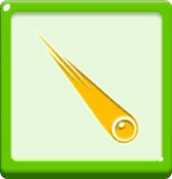
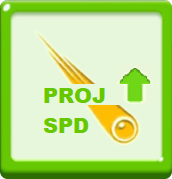
turretstats UI update
Moved the stats caluclation into a seperate function UpdateStats();. When successfully equiping item, it calls the UpdateStats(); function to update the stats then invokes the onItemChangedCallBack() function to update the UI visuals.

Updated the Projectile speed Icon.

Changed region(s): [[0.2326, 0.4469, 0.6977, 0.5866], [0.2326, 0.6425, 0.5233, 0.7542], [0.6977, 0.3631, 0.8721, 0.5866]]

diff --git a/Assets/Scripts/turret.cs b/Assets/Scripts/turret.cs
@@ -79,6 +79,7 @@ public class turret : MonoBehaviour
             if (currentEquipment[i] == null)
             {
                 currentEquipment[i] = newItem;
+                UpdateStats();
                 if (onItemChangedCallBack != null)
                     onItemChangedCallBack.Invoke();
                 Debug.Log("Equip() at Slot : " + i + " is " + currentEquipment[i].name);
@@ -119,40 +120,7 @@ public class turret : MonoBehaviour
     // Update is called once per frame
     void Update()
     {
-        //resets stats at the beginning of every update loop. Otherwise turret strength increases with every loop.
-        range = baserange;
-        fireRate = basefireRate;
-        damage = basedamage;
-        doubleAttack = false;
-        projSpeedMod = 1f;
-
-        //Checking the stat change on every loop can prevent bugs and reduce complexity.
-        for (int i = 0; i < numSlots; i++)
-        {
-            if (currentEquipment[i] != null)
-            {
-                if (currentEquipment[i].name == "Increased Fire Rate")
-                {
-                    fireRate = fireRate * incFireRate;
-                }
-                else if (currentEquipment[i].name == "Increased Damage")
-                {
-                    damage = damage * incDMG;
-                }
-                else if (currentEquipment[i].name == "Double Attack")
-                {
-                    doubleAttack = true;
-                }
-                else if (currentEquipment[i].name == "Increased Range")
-                {
-                    range = range * incRange;
-                }
-                else if (currentEquipment[i].name == "Increased Projectile Speed")
-                {
-                    projSpeedMod = projSpeedMod * incProjSpeed;
-                }
-            }
-        }
+        UpdateStats();
 
         if (useSurroundAOE)
             AOEeffectPrefab.transform.localScale = new Vector3(range / 7, 1, range / 7);  //need to normalize it. Hard coding the base range to 7
@@ -291,6 +259,44 @@ public class turret : MonoBehaviour
         else
         {
             Shoot();
+        }
+    }
+
+    void UpdateStats()
+    {
+        //resets stats at the beginning of every update loop. Otherwise turret strength increases with every loop.
+        range = baserange;
+        fireRate = basefireRate;
+        damage = basedamage;
+        doubleAttack = false;
+        projSpeedMod = 1f;
+
+        //Checking the stat change on every loop can prevent bugs and reduce complexity.
+        for (int i = 0; i < numSlots; i++)
+        {
+            if (currentEquipment[i] != null)
+            {
+                if (currentEquipment[i].name == "Increased Fire Rate")
+                {
+                    fireRate = fireRate * incFireRate;
+                }
+                else if (currentEquipment[i].name == "Increased Damage")
+                {
+                    damage = damage * incDMG;
+                }
+                else if (currentEquipment[i].name == "Double Attack")
+                {
+                    doubleAttack = true;
+                }
+                else if (currentEquipment[i].name == "Increased Range")
+                {
+                    range = range * incRange;
+                }
+                else if (currentEquipment[i].name == "Increased Projectile Speed")
+                {
+                    projSpeedMod = projSpeedMod * incProjSpeed;
+                }
+            }
         }
     }
 }

diff --git a/Assets/Scripts/NodeUI.cs b/Assets/Scripts/NodeUI.cs
@@ -112,5 +112,8 @@ public class NodeUI : MonoBehaviour
         }
 
         turretDamage.text = target.turret.GetComponent<turret>().damage.ToString();
+        turretRange.text = target.turret.GetComponent<turret>().range.ToString();
+        turretFireRate.text = target.turret.GetComponent<turret>().fireRate.ToString() + "/sec";
+        turretSpecialEffect.text = target.turret.GetComponent<turret>().specialEffect.ToString();
     }
 }
